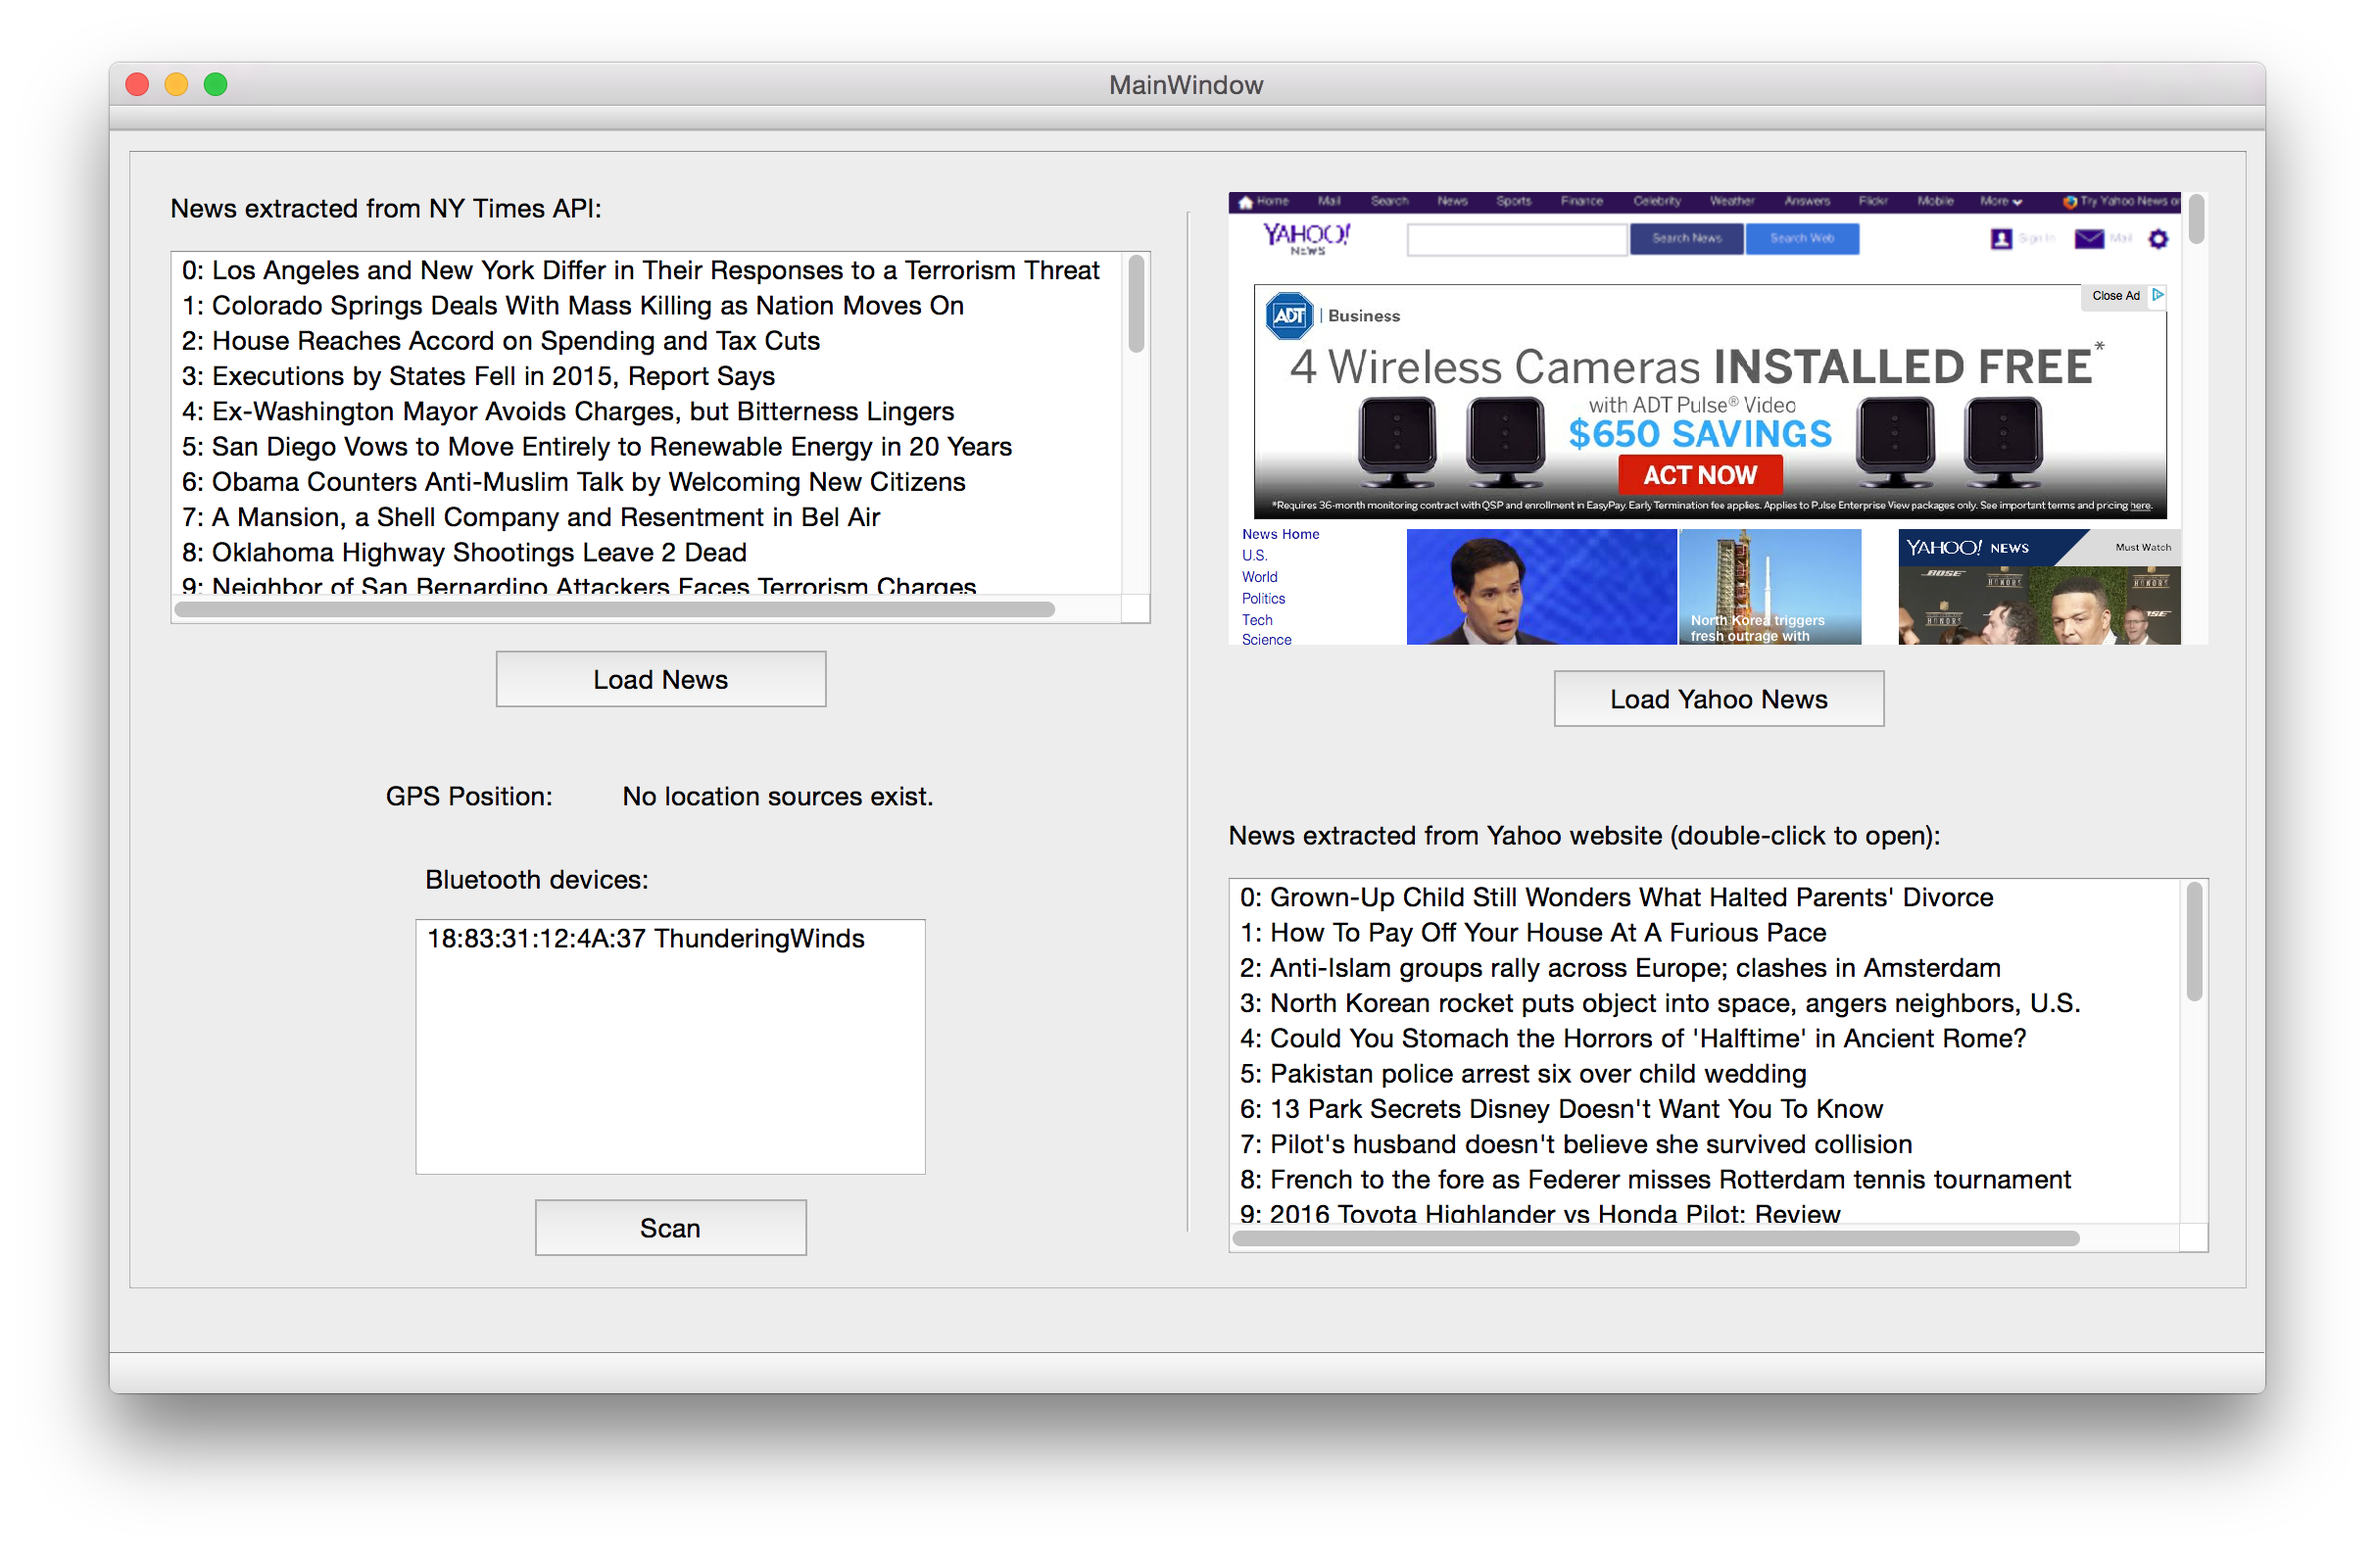
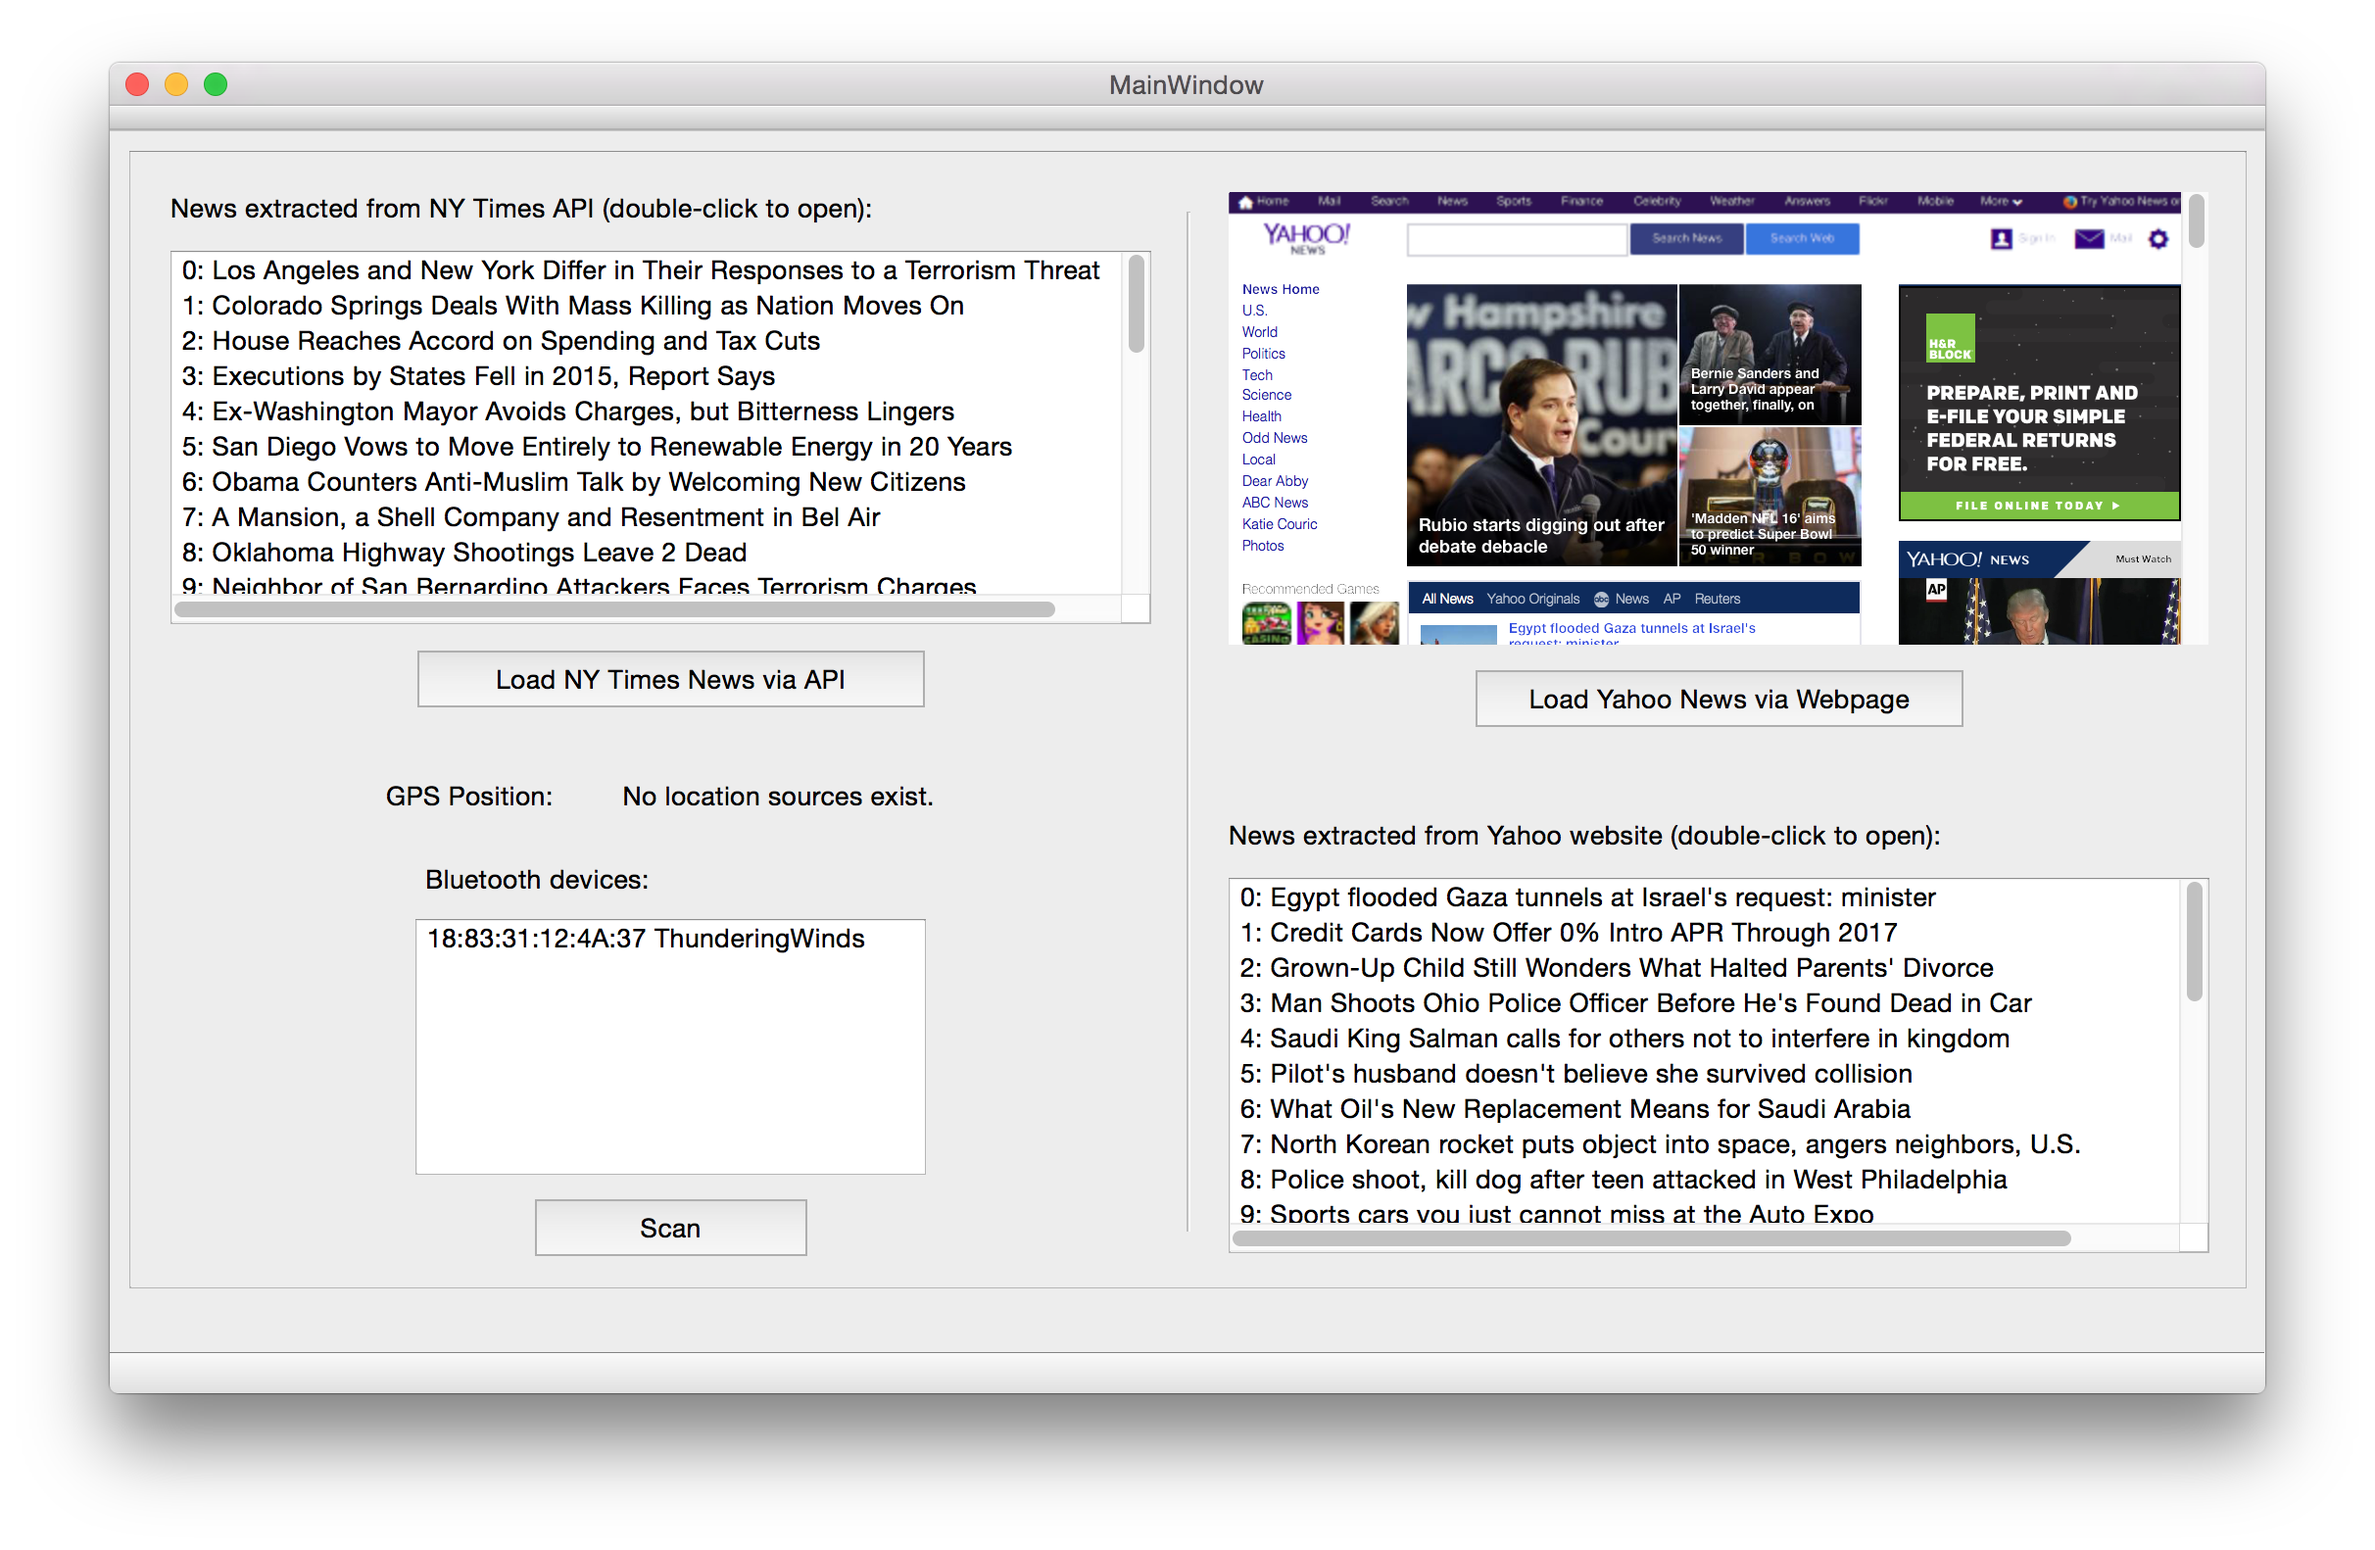
Adjusted some text.
- Eliminated warnings.
- Updated screenshot.

diff --git a/mainwindow.cpp b/mainwindow.cpp
@@ -27,9 +27,9 @@ MainWindow::MainWindow(QWidget *parent) :
     gpsSource = QGeoPositionInfoSource::createDefaultSource(this);
     if(gpsSource == NULL)
     {
-        QString message("No location sources exist.");
+        const char *message = "No location sources exist.";
 
-        qCritical(qPrintable(message));
+        qCritical(message);
         ui->gpsPosition->setText(message);
 
         QStringList sources = QGeoPositionInfoSource::availableSources();
@@ -65,7 +65,7 @@ void MainWindow::positionUpdated(QGeoPositionInfo gpsPos)
 }
 
 // There was a problem getting the position.
-void MainWindow::positionError(QGeoPositionInfoSource::Error e)
+void MainWindow::positionError(QGeoPositionInfoSource::Error)
 {
     ui->gpsPosition->setText("There was an error getting the position.");
 }
